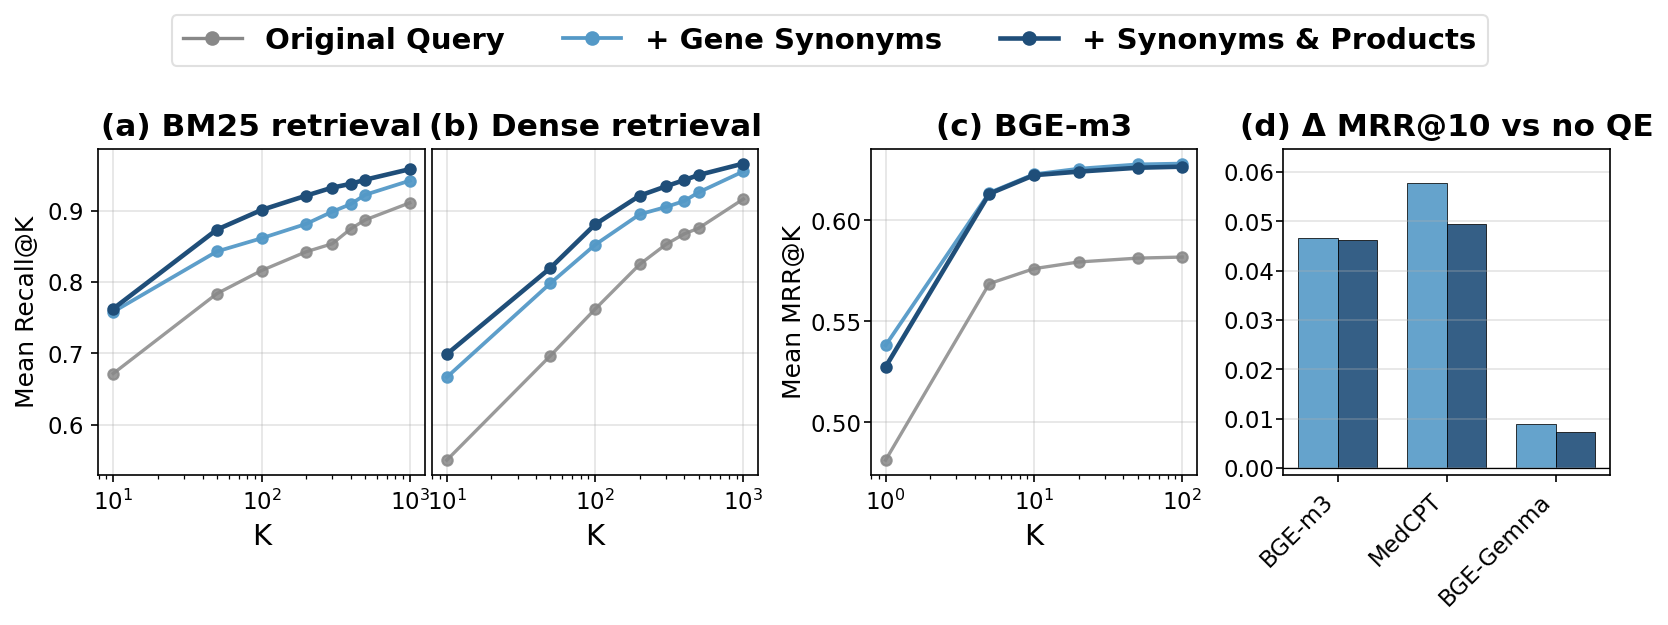
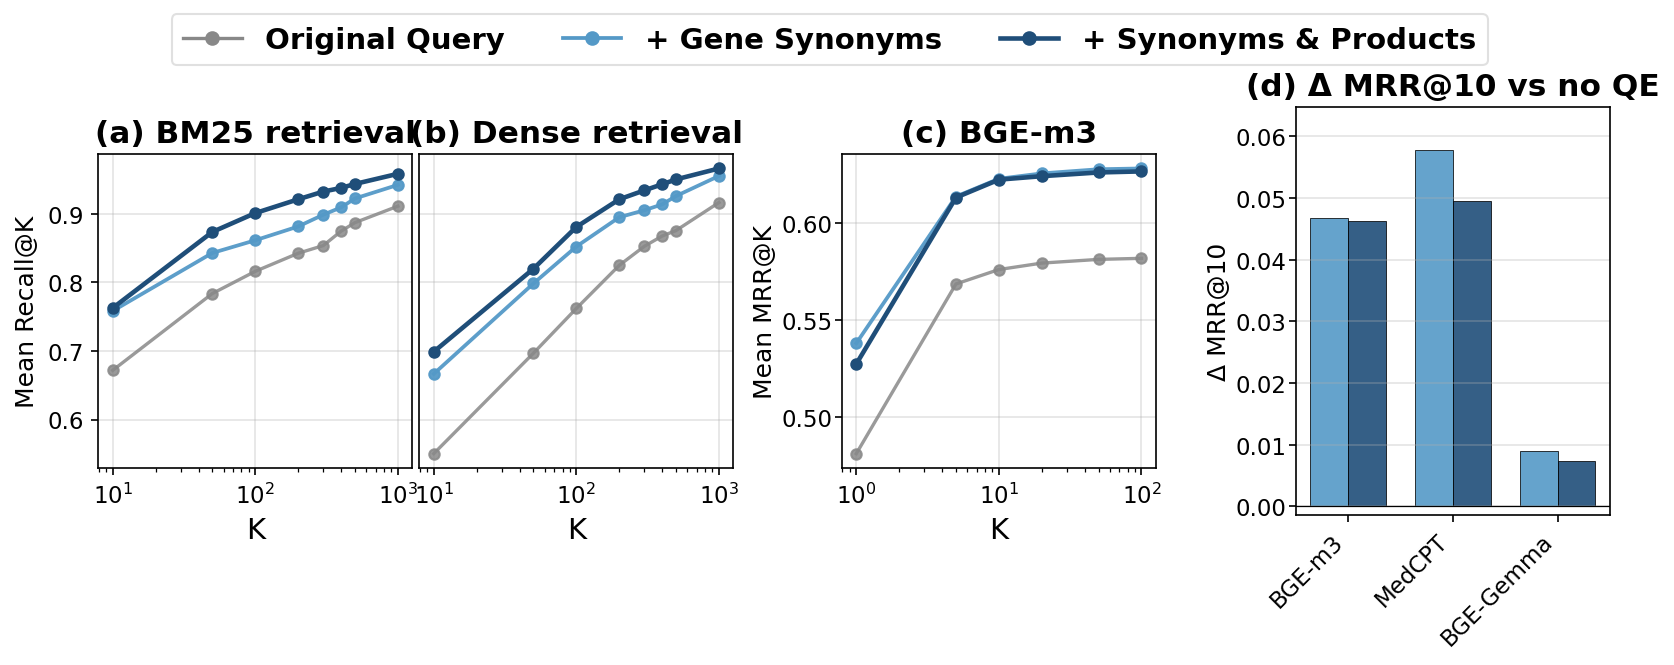
fig: add y-axis label to Fig 4 panel (d) and re-render (Gadi)
- query_expansion_sweeping.py: set_ylabel('Δ MRR@10') on panel (d), made it
  slimmer (box_aspect 1.3) with a wider left spacer so the label fits
- re-rendered fig4_candidate_qe_main.png
- caption: note y-axis is in MRR@10 units

diff --git a/notebooks/query_expansion_sweeping.py b/notebooks/query_expansion_sweeping.py
@@ -709,7 +709,7 @@ fig = plt.figure(figsize=(13.0, 4.0))
 # Equal-width panels; spacer cols absorb y tick labels between (b,c) and (c,d).
 gs = GridSpec(
     1, 6, figure=fig,
-    width_ratios=[1.0, 1.0, 0.30, 1.0, 0.22, 1.0],
+    width_ratios=[1.0, 1.0, 0.30, 1.0, 0.40, 1.0],
     wspace=0.03,
 )
 ax_a = fig.add_subplot(gs[0])
@@ -776,7 +776,7 @@ ax_c.grid(True, axis="y", alpha=0.35)
 ax_c.grid(True, axis="x", alpha=0.35)
 
 
-# Panel (d): Δ MRR@10 vs baseline (no QE) — metric named in title; y-axis label omitted.
+# Panel (d): Δ MRR@10 vs baseline (no QE) — metric named in title and on the y-axis label.
 # Two nested bars per reranker — Δ MRR@10 (synonyms − body) and Δ MRR@10 (long − body) —
 # same blue gradient as panels (a)–(c) so QE intensity is visually consistent.
 # The diminishing bar height left-to-right tells the orthogonality story:
@@ -813,7 +813,7 @@ ax_d.axhline(0, color="black", linewidth=0.6)
 ax_d.set_xticks(xpos)
 ax_d.set_xticklabels(inset_reranker_order, rotation=45, ha="right", fontsize=_FIG4_FS_TICK - 1)
 ax_d.tick_params(axis="y", pad=1)
-ax_d.set_ylabel("")
+ax_d.set_ylabel("Δ MRR@10", fontsize=_FIG4_FS_YLABEL, labelpad=2)
 ax_d.set_title("(d) Δ MRR@10 vs no QE", fontsize=_FIG4_FS_TITLE, fontweight="bold")
 ax_d.grid(True, axis="y", alpha=0.35)
 
@@ -832,8 +832,10 @@ for qf in ["body", "synonyms", "long"]:
                                  linewidth=s["lw"], label=s["label"]))
 for _ax in (ax_a, ax_b, ax_c, ax_d):
     _ax.tick_params(axis="both", which="major", labelsize=_FIG4_FS_TICK)
-for _ax in (ax_a, ax_b, ax_c, ax_d):
+for _ax in (ax_a, ax_b, ax_c):
     _ax.set_box_aspect(1)
+# Panel (d) is made slimmer (taller-than-wide) to leave room for its y-axis label.
+ax_d.set_box_aspect(1.3)
 
 fig.tight_layout(
     rect=(0.02, 0.10, 0.99, 0.84),

diff --git a/output/paper_figures/paper.tex b/output/paper_figures/paper.tex
@@ -346,7 +346,7 @@ We next evaluate gene-aware query expansion on the 563-query subset for which di
 \begin{figure}[!htbp]
 \centering
 \includegraphicsifexists[width=0.98\linewidth,height=0.3\textheight,keepaspectratio]{Figures/fig4_candidate_qe_main.png}
-\caption{Effect of gene-aware query expansion. Three query variants are compared: the original query (the curator claim), the claim plus gene synonyms, and the claim plus both gene synonyms and product descriptions. (a) BM25 Recall@K, (b) dense Recall@K, and (c) mean MRR@K after BGE-m3 reranking, each plotted against the cutoff rank K on the x-axis. (d) The y-axis shows the change in MRR@10 (in MRR@10 units) relative to the original-query baseline for BGE-m3, MedCPT, and BGE-Gemma; the two bars per reranker are the two expansion variants, and positive values indicate that expansion improved the final ranking. Paired-bootstrap confidence intervals for the MRR@10 deltas are reported in Table~\ref{tab:s1_qe_reranker}.}
+\caption{Effect of gene-aware query expansion. Three query variants are compared: the original query (the curator claim), the claim plus gene synonyms, and the claim plus both gene synonyms and product descriptions. (a) BM25 Recall@K, (b) dense Recall@K, and (c) mean MRR@K after BGE-m3 reranking, each plotted against the cutoff rank K on the x-axis. (d) Change in MRR@10 (y-axis, in MRR@10 units) relative to the original-query baseline for BGE-m3, MedCPT, and BGE-Gemma; the two bars per reranker are the two expansion variants, and positive values indicate that expansion improved the final ranking. Paired-bootstrap confidence intervals for the MRR@10 deltas are reported in Table~\ref{tab:s1_qe_reranker}.}
 \label{fig:qe}
 \end{figure}
 

diff --git a/output/paper_figures/reviewer_comments_checklist_revised.md b/output/paper_figures/reviewer_comments_checklist_revised.md
@@ -67,7 +67,7 @@ Legend: ✏ = inline edit (delete struck text → insert caret text) · 💬 
 ## Page 10 (Fig. 3 + full-text results)
 
 - [x] ✅ **L348/354 (Fig. 3 / QE text, `curator claim`)** — unified to "original query" (matching the legend): bridged once at first mention (L342: "the original query (the curator claim)"), then "original query" in the Fig. 3 caption and prose (L349/353/355). Kept "curator claim" only where it contrasts with the cited abstract.
-- [x] ✅ **L348 (Fig. 3 panel `(d)`)** — defined the y-axis in the **caption** instead of re-rendering (author chose not to touch the figure): "(d) The y-axis shows the change in MRR@10 (in MRR@10 units) relative to the original-query baseline…". Note: panel (d) is in raw MRR@10 units, not percentage points (deltas computed as v−body on the 0–1 scale in query_expansion_sweeping.py), so "percentage points" was deliberately avoided.
+- [x] ✅ **L348 (Fig. 3 panel `(d)`)** — re-rendered fig4_candidate_qe_main.png with an on-axis y-label "Δ MRR@10" (query_expansion_sweeping.py: set_ylabel + panel made slimmer via box_aspect 1.3 and wider left spacer). Caption also names it. Units are raw MRR@10, not percentage points (deltas = v−body on the 0–1 scale), confirmed by the re-render (Δ ≈ 0.009–0.058), so "percentage points" was deliberately avoided.
 - [x] ✅ **L360** — `…limiting for claims whose cited abstracts…` → `claims where the cited abstracts…` *(this is the same "whose" Gadi's two overlapping marks both point at)*
 - [x] ✅ **L~ (full-text)** — L359 subsection title: "…evidence is missing from abstracts" → "…missing from **the** abstracts".
 - [x] ✅ **L372** — `…already close to ceiling…` → "close to **the** ceiling".
